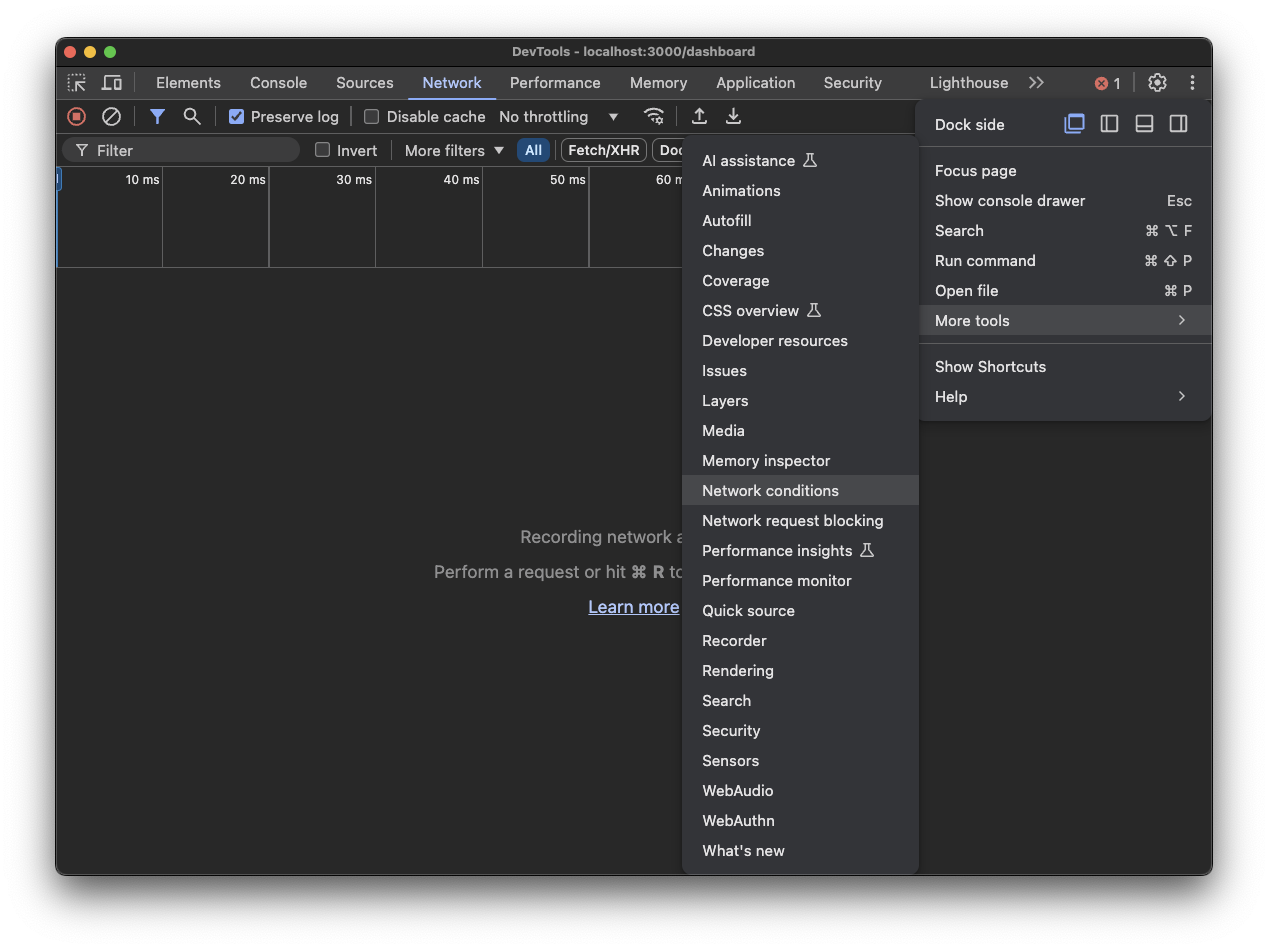
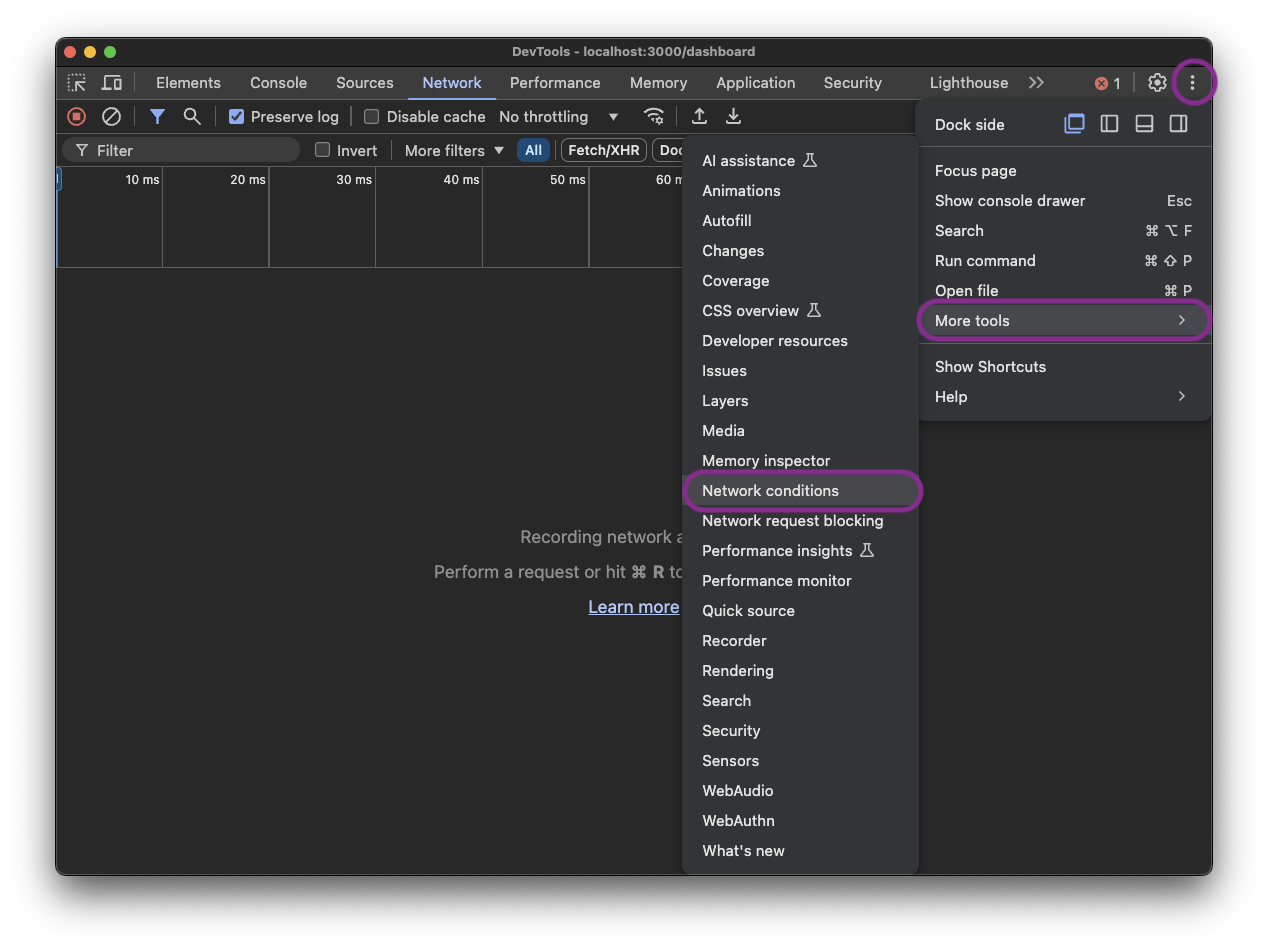
change feature image, annotate chrome dev tool images, lessons learned, finish first draft

Changed region(s): [[0.7074, 0.3056, 0.9535, 0.3667], [0.5229, 0.4889, 0.7382, 0.5501], [0.9227, 0.0611, 0.9842, 0.1222]]

diff --git a/src/markdown/ruby-upgrade-broke-ms-edge.md b/src/markdown/ruby-upgrade-broke-ms-edge.md
@@ -1,6 +1,6 @@
 ---
 title: "How a Ruby Upgrade Broke MS Edge Support in Our Rails App"
-featuredImage: "../images/ruby-upgrade-broke-ms-edge-support-rails-howard-chin-dgajs9bJYek-unsplash.jpg"
+featuredImage: "../images/ruby-upgrade-broke-ms-edge-support-rails-david-vives-plzP_gAmSog-unsplash.jpg"
 description: "Discover how upgrading Ruby unexpectedly caused compatibility issues with Microsoft Edge in our Rails app, and learn the debugging steps we took to resolve it."
 date: "2025-05-01"
 category: "rails"
@@ -10,7 +10,7 @@ related:
   - "Rails Feature Test Solved by Regex"
 ---
 
-Recently, I encountered a perplexing issue: customers using Microsoft Edge could no longer access the Rails app I maintain. Instead, they were redirected to our `/unsupported_browser` page, which advises users to switch to Chrome, Firefox, or Safari. This wasn’t just an inconvenience, it was a major blocker for some users who relied exclusively on Edge. Here’s the story of how I debugged and fixed the problem.
+Recently, I encountered a perplexing issue: customers using Microsoft Edge could no longer access a legacy Rails app I maintain. Instead, they were redirected to our `/unsupported_browser` page, which advises users to switch to Chrome, Firefox, or Safari. This wasn’t just an inconvenience, it was a major blocker for some users who relied exclusively on Edge. This post will walk through the debugging steps and resolution.
 
 ## The Issue
 
@@ -31,7 +31,7 @@ I was curious to determine if this was an isolated issue affecting only one user
 
 ## One User or Many?
 
- This app uses Datadog APM for observability, with the datadog gem and auto instrumentation enabled. This makes any `Controller#action` available as a Resource in the Services section.
+ This app uses [Datadog APM](https://docs.datadoghq.com/tracing/) for observability, with the [datadog gem](https://github.com/DataDog/dd-trace-rb) and auto instrumentation enabled. This makes any `Controller#action` available as a Resource in the Services section.
 
 The top of every resource page in Datadog shows some summary graphs, including the number of requests to this resource over a period of time. The resource page for `PagesController#unsupported_browser` in Datadog showed a sharp increase in the number of requests over the past few days:
 
@@ -76,7 +76,7 @@ npx ua-parser-js "Mozilla/5.0 (Windows NT 10.0; Win64; x64) AppleWebKit/537.36 (
 
 ## Reproducing the Issue
 
-The next step was to see if I could reproduce the issue. From the user agent string analysis, it appeared to only be affecting Microsoft Edge users on Windows 10. While it is possible to install the Microsoft Edge browser on a Mac, I was concerned that the User Agent string wouldn't be exactly the same from a Mac vs Windows.
+The next step was to see if I could reproduce the issue. From the User Agent string analysis, it appeared to only be affecting Microsoft Edge users on Windows 10. While it is possible to install the Microsoft Edge browser on a Mac, I was concerned that the User Agent string wouldn't be exactly the same from a Mac vs Windows.
 
 Fortunately, it's possible using Chrome (my default browser on Mac) to send an alternate User Agent string. With the Developer Tools open, select the Network tab, then click on the three vertical dots at the top right, and select More Tools, then Network Conditions as shown in the screenshot below:
 
@@ -164,19 +164,19 @@ Rails.application.config.middleware.use Browsernizer::Router do |config|
   config.exclude   %r{^/assets}
 end
 ```
-At first glance, it appeared that Microsoft Edge was intentionally marked as unsupported. However, this configuration was introduced eight years ago, back when Edge was more like Internet Explorer. At the time, this rule made sense for this particular app. And the `browser` gem v2.2.0 was also released 8 years ago.
+At first glance, it appeared that Microsoft Edge was intentionally marked as unsupported. However, this configuration was introduced eight years ago, back when Edge was more like Internet Explorer. At the time, this rule made sense for this particular app.
 
 <aside class="markdown-aside">
 This app's front end is built with Backbone and Marionette, which historically had compatibility issues with older browsers like IE8, prompting the decision to block both Internet Explorer and Edge in the initial configuration. Browser support was improved in Marionette around 2019, but this app is over 8 years old, and at that time support for older browsers was not the case. This <a class="markdown-link" href="https://github.com/marionettejs/backbone.marionette/issues/3658">GitHub issue</a> and <a class="markdown-link" href="https://github.com/marionettejs/backbone.marionette/blob/master/test/rollup.config.js#L24-L30">test configuration</a> have more details.
 </aside>
 
-But in January 2020, Microsoft modified their Edge browser to be Chromium based, which would have also modified the User Agent string that browser was sending. However, this app had remained on the older version of the `browser` gem (v2.2.0) during this transition.
+In January 2020, Microsoft modified their Edge browser to be Chromium based, which would have also modified the User Agent string that browser was sending. However, this app had remained on an older version of the `browser` gem (v2.2.0) during this transition.
 
 ## Identify Root Cause
 
 With the older `browser` gem (v2.2.0), Chromium-based Edge wasn’t recognized as "Microsoft Edge" due to differences in User-Agent parsing. This version of the gem was released 8 years ago, prior to the existence of Chromium-based Edge, so it couldn't have been detected as such.
 
-This unintentional gap allowed Chromium-based Edge users to bypass the block because the v2.2.0 version of `browser` incorrectly identified Chromium-based Edge as "Chrome". After the Ruby upgrade, the newer `browser` gem (v2.7.1) correctly identified *all* Edge browsers - Chromium-based or not, therefore triggering the block for all versions of Edge, which was not intended.
+This unintentional gap allowed Chromium-based Edge users to bypass the block because the v2.2.0 version of `browser` incorrectly identified Chromium-based Edge as "Chrome". After the Ruby upgrade, the newer `browser` gem (v2.7.1) correctly identified *all* Edge browsers - Chromium-based or not as "Edge". This started triggering the block for all versions of Edge, which was not intended.
 
 To verify this, I setup a Ruby project with the older 2.2.0 version of the `browser` gem as follows:
 
@@ -206,9 +206,9 @@ puts "Is this Chrome? #{browser.chrome?}"
 # Is this Chrome? true
 ```
 
-As shown from the above output, v2.2.0 of `browser` gem was identifying Chromium-based Edge as Chrome, and so this browser was bypassing the blocks setup in `config/initializers/browsernizer.rb`.
+As shown from the above output, v2.2.0 of `browser` gem was identifying Chromium-based Edge as Chrome. This is what had allowed Chromium-based Edge users to bypass the block setup in `config/initializers/browsernizer.rb` for all these years.
 
-Then I setup another Ruby project, this time with the 2.7.1 version of the browser gem that the project had been updated to as part of the upgrade project:
+Then I setup another Ruby project, this time with the v2.7.1 version of the `browser` gem that the project had been updated to as part of the upgrade:
 
 ```ruby
 # Gemfile
@@ -270,24 +270,29 @@ end
 
 With this fix in place, I repeated the manual testing I had been doing with Chrome dev tools and sending the Chromium-based Edge User Agent string, and this time I was allowed to get into the app.
 
+<aside class="markdown-aside">
+Longer term we may consider replacing the `browsernizer` gem with a custom solution since it's no longer maintained. We could instead use the `browser` gem directly and implement our own middleware, since the `browser` gem is actively maintained.
+</aside>
+
 ## Ensuring the Bug Stays Fixed
 
 But it's not enough to only deliver a code fix. We also need some tests to ensure this stays fixed.
 
 This project does have decent system/feature test coverage with [Capybara](https://github.com/teamcapybara/capybara) and [Cuprite](https://github.com/rubycdp/cuprite), which is a pure Ruby driver for Capybara. But Cuprite is Chrome only, so at first glance, it seems like it wouldn't be possible to have an automated test to verify other browsers.
 
-However, remembering my earlier experiment with Chrome dev tools to simulate the error condition by sending a different User Agent string, I had an idea that maybe the same thing could be done with a feature test, if there was a way to modify the User Agent string sent in request header.
+However, remembering my earlier experiment with Chrome dev tools to simulate the error condition by sending a different User Agent string, I had an idea that maybe the same thing could be done with a feature test, if there was a way to modify the User Agent string sent in the request headers.
 
-It turns out, Cuprite does indeed support [modifying request headers](https://github.com/rubycdp/cuprite?tab=readme-ov-file#request-headers). The code sample they provide helpfully includes an example for changing the user agent string, which is exactly what I wanted to do:
+It turns out, Cuprite does indeed support [modifying request headers](https://github.com/rubycdp/cuprite?tab=readme-ov-file#request-headers). The documentation includes an example for changing the User Agent string, which is exactly what I wanted to do:
 
 ```ruby
+# From Cuprite README.md -> Request headers
 page.driver.headers # => {}
 page.driver.headers = { "User-Agent" => "Cuprite" }
 page.driver.add_headers("Referer" => "https://example.com")
 page.driver.headers # => { "User-Agent" => "Cuprite", "Referer" => "https://example.com" }
 ```
 
-This allowed me to write a test to simulate a user visiting the root path "/" from any number of different browsers, differentiated only by the User Agent string. If a browser is supported, then the test expects that the user should be redirected to "/login", otherwise, "/unsupported_browser":
+This allowed me to write a test to simulate a user visiting the root path `"/"` from any number of different browsers, differentiated only by the User Agent string. If a browser is supported, then the test expects that the user should be redirected to `"/login"`, otherwise, `"/unsupported_browser"`:
 
 ```ruby
 # spec/features/user_agent_spec.rb
@@ -341,19 +346,12 @@ These tests ensure that future updates won’t reintroduce the bug.
 
 ## Lessons Learned
 
-TODO: This section needs work
-
-1. **Legacy Configurations Need Periodic Reviews**: The `browsernizer` configuration was a time bomb waiting for the right conditions to trigger issues.
-2. **Test Browser Compatibility**: Incorporating tests with simulated User-Agent strings is invaluable for avoiding browser-specific regressions.
-3. **Keep Dependencies Up-to-Date**: Stagnant gems like `browsernizer` can lead to tech debt and compatibility issues.
-4. **Debugging Tools Are Your Friend**: Chrome DevTools’ ability to simulate User-Agent strings was critical to reproducing the issue.
+1. If an app is using browser detection, periodically revisit the configuration as new browsers become available to ensure it still works as intended.
+2. If using a gem for browser detection, keep this dependency up to date.
+3. If a gem is no longer receiving updates, consider replacing it with something that is maintained, or if the logic is relatively simple, with a custom solution.
+4. Include automated tests for browser detection.
+5. A good APM tool is your friend in diagnosing production issues.
 
 ## TODO
-* Annotate `chrome-devtools-custom-user-agent-string.png` with arrow pointing to what to uncheck and where to custom fill in
-* Aside: Datadog/APM terminology - link to a good learning resource for those unfamiliar
-* Aside: Mention browsernizer hasn't been updated in 8 years, careful with bringing in gems that don't get regularly updated, we may in the future want to remove this dependency and use browser gem directly for browser detection.
-* Aside: Browserstack is useful for testing on a variety of real browsers, our team might invest in a few licenses for the future.
-* Conclusion or maybe call it Lessons Learned - careful with bringing in gems that may no longer be maintained, especially if all they do is provide a lightweight wrapper around a well-maintained/popular gem. Do maintain the system tests as much as possible, because relying on manual testing will slow you down tremendously as app size grows. Anything else?
-* Consistency in browser naming re: Edge, MS Edge, Microsoft Edge.
 * edit
 * Updated related to include Datadog Heroku post, should be published by then
